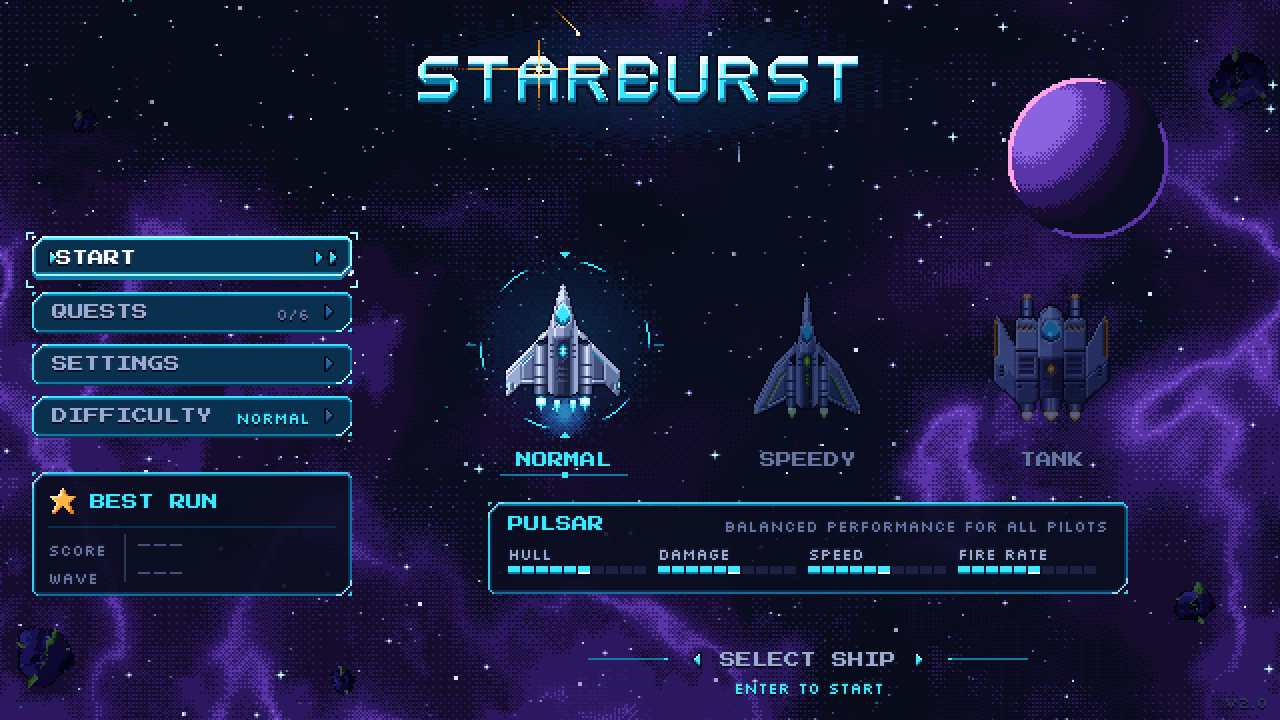
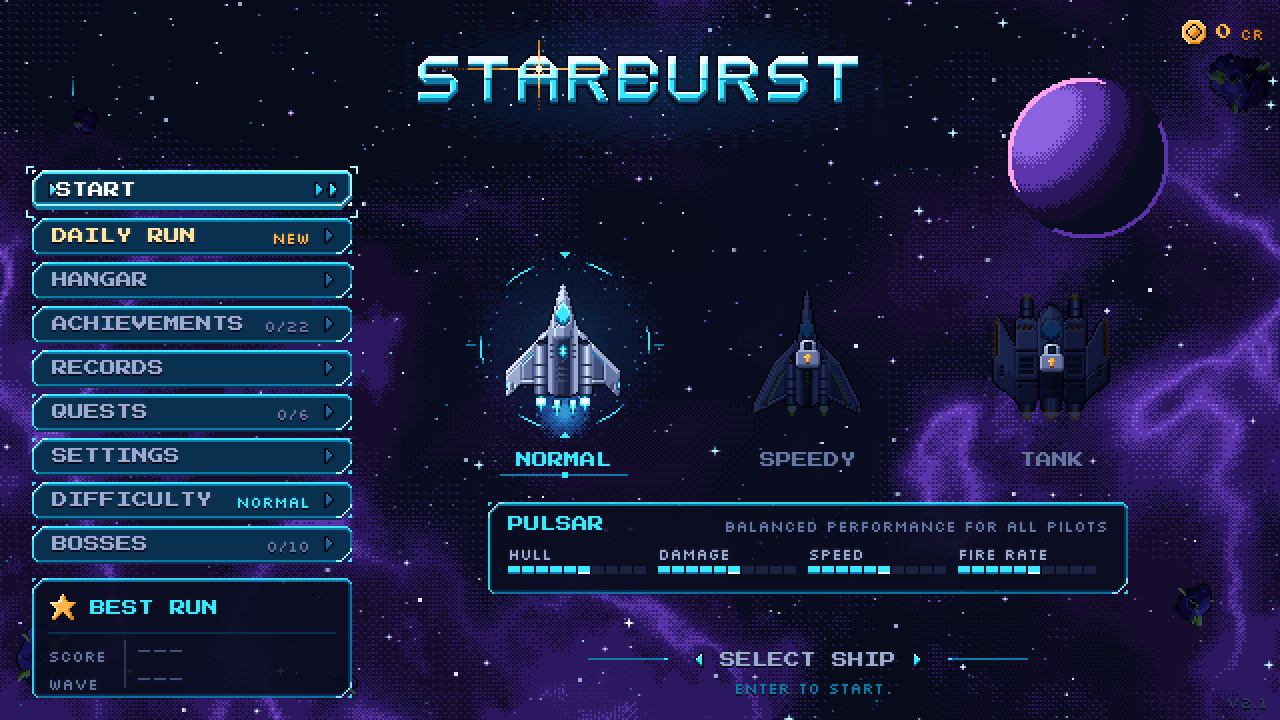
title screen shows the real version; refreshed itch media (cover, screenshots, gif) and page copy

diff --git a/src/scenes/MainMenu.js b/src/scenes/MainMenu.js
@@ -7,6 +7,7 @@ import { COLORS, PALETTE } from '../art/palette.js';
 import Background from '../fx/Background.js';
 import { MenuNav } from '../ui/widgets.js';
 import { save } from '../systems/Save.js';
+import { BUILD } from '../systems/net.js';
 import { sfx } from '../systems/sfx.js';
 import { evaluateQuests, syncQuests } from '../systems/quests.js';
 import TitleLogo from './menu/TitleLogo.js';
@@ -62,7 +63,7 @@ export default class MainMenu extends Phaser.Scene {
         this.credits = createCredits(this, W - 8, 8);
         this.buildFooter();
         this.updateFooter();
-        this.corner = text(this, W - 6, H - 5, 'V2.0', { size: 8, origin: [1, 1], color: PALETTE[2] }).setDepth(DEPTH.HUD);
+        this.corner = text(this, W - 6, H - 5, 'V' + BUILD.split('-')[0].split('.').slice(0, 2).join('.'), { size: 8, origin: [1, 1], color: PALETTE[2] }).setDepth(DEPTH.HUD);
 
         this.flash = this.add.rectangle(0, 0, W, H, COLORS.w, 0).setOrigin(0).setDepth(DEPTH.MODAL + 10);
         this.intensity = 1;

diff --git a/docs/ITCH.md b/docs/ITCH.md
@@ -15,7 +15,7 @@ the `starburst-dist` artifact from CI is the offline build) with `index.html` at
 - **Accessibility:** Configurable controls, Color-blind friendly, High-contrast
 - **Average session:** A few minutes
 - **Languages:** English
-- **Cover image:** 630 × 500 (itch minimum 315 × 250). Make a dedicated crop from `docs/media/gameplay.png` or the title screen; a straight crop of `public/og-image.png` cuts off the logo. Screenshots: `docs/media/title.png`, `gameplay.png`, `boss.png`. GIF: `docs/media/gameplay.gif`.
+- **Cover image:** 630 × 500 (itch minimum 315 × 250). Ready-made: `docs/media/itch-cover.png` (630 × 500). Screenshots (1280 × 720): `docs/media/title.png`, `gameplay.png`, `boss.png`, `sector3.png`. GIF: `docs/media/gameplay.gif` (3.9 MB; itch allows up to 3 MB per GIF cover but screenshots can be larger, so use it as a screenshot or trim with `--seconds 4`).
 - **Theme colours (Edit theme):** background `#070b1a`, text `#dbe6ff`, links/buttons `#39e7ff`, secondary `#ff43c8`
 
 ## AI disclosure (itch.io "Generative AI" section + page text)
@@ -49,12 +49,12 @@ Dodge the neon storm. Graze for combo. Break the bosses.
 Fly through timed waves of enemy fire, slip through gaps a few pixels wide, and *graze* bullets on purpose. Every near
 miss feeds your combo multiplier. After each wave, pick an upgrade: unlock a **dash**, a bullet-erasing **forcefield**
 or a **phase shift** that lets you pass through everything, then level them up. Every fifth wave a boss arrives with
-telegraphed attack phases. Survive past the authored waves and the endless mode keeps raising the pressure.
+telegraphed attack phases. Four sectors (nebula, asteroid field, derelict station, solar storm) lead to a final boss; survive past it and the endless mode keeps raising the pressure.
 
 **Features**
 - Three ships: balanced **Pulsar**, the fast **Nova Dart**, and the armoured **Titan**
 - Readable patterns: orbs, rings, needles, and shards each have their own silhouette, and your true hitbox is always visible
-- Bosses with multiple phases, quests to complete, three difficulty levels, and best-run tracking
+- 20 hand-built waves in four sectors, mid-bosses and four main bosses with multiple phases, quests, three difficulty levels, a daily run and best-run tracking
 - Keyboard, gamepad, and touch controls
 - Installable and playable offline
 - World leaderboards (all-time and daily) with a 3-letter callsign. The game sends anonymous run statistics to improve balance; **Settings → Online** turns it off. No account, no tracking: see `docs/PRIVACY.md`. (Only if the uploaded build was made with `VITE_API_URL`; otherwise delete this bullet.)
